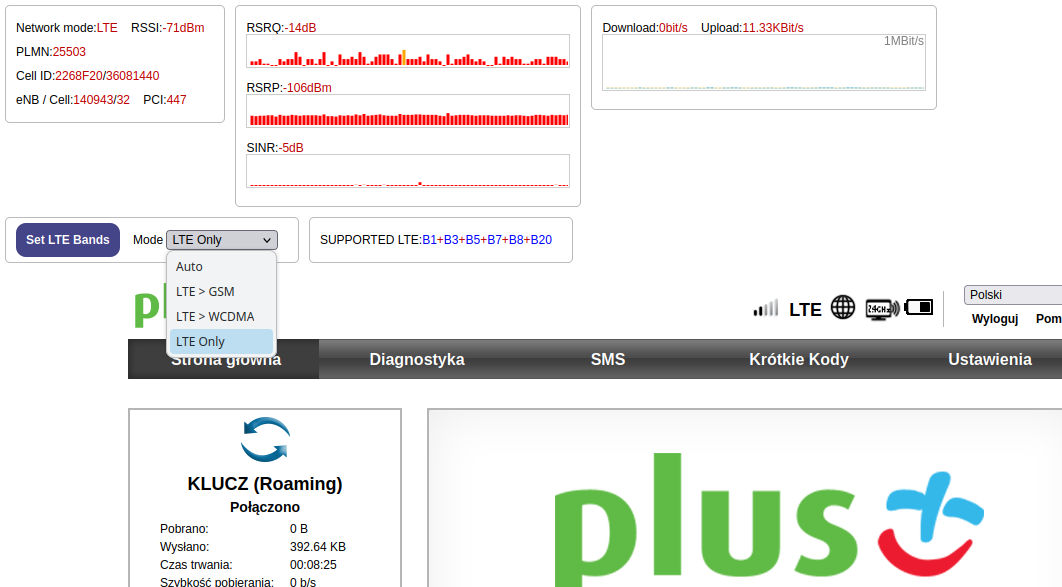
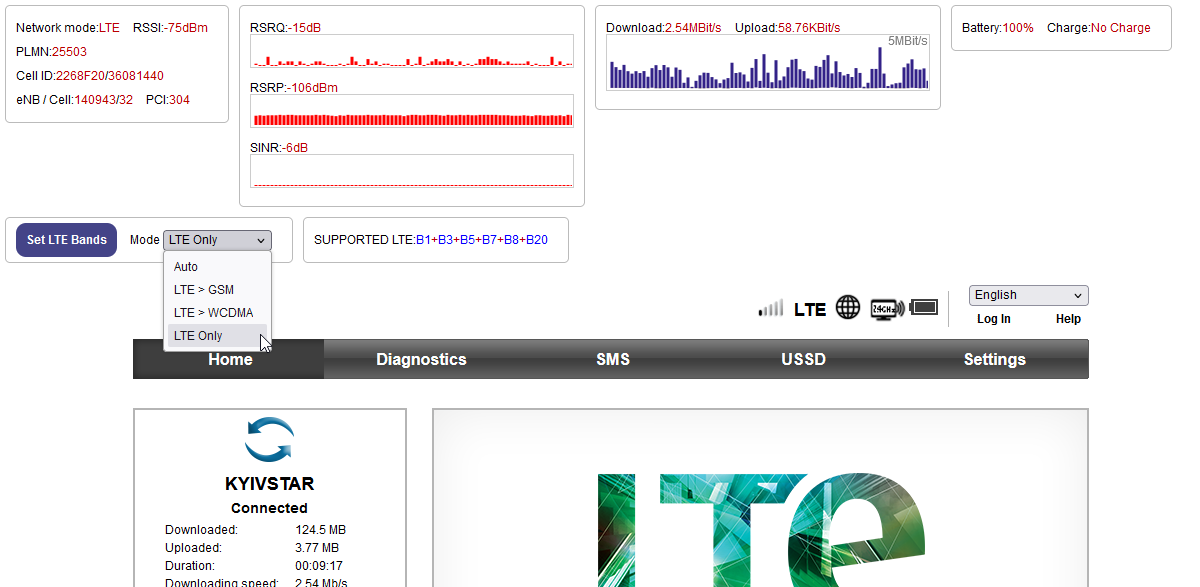
Update README

diff --git a/README.md b/README.md
@@ -2,12 +2,14 @@
 
 This repository contains JavaScript code that show dashboard with mobile connection parameters that are not always available in the Web UI of Huawei&Netgear routers. There are two versions of the script:
 * as a URL code for a browser **Bookmark**
-* as a [TamperMonkey addon](https://www.tampermonkey.net/)
+* as a [TamperMonkey](https://www.tampermonkey.net/) addon
 
 Currently the extra dashboard shows the following data:
 * network type (GSM, WCDMA, LTE)
 * signal strength parameters specific to current network type (e.g. EC/IO for 3G, SINR for LTE)
 * DL/UL rates
+* Battery level and status (for mobile hotspots)
+* Device and battery temperature (for Netgear hotspots)
 
 Additionally, dashboard for the Huawei routers allows fixation of LTE bands.
 
@@ -89,6 +91,7 @@ The script was tested on the following routers:
 * E5330
 * E5573
 * E8372
+* K5160 - DL/UL rates and adjusting LTE bands work. No signal data as firmware doesn't provide signal data by default.
 
 ### Netgear
 
